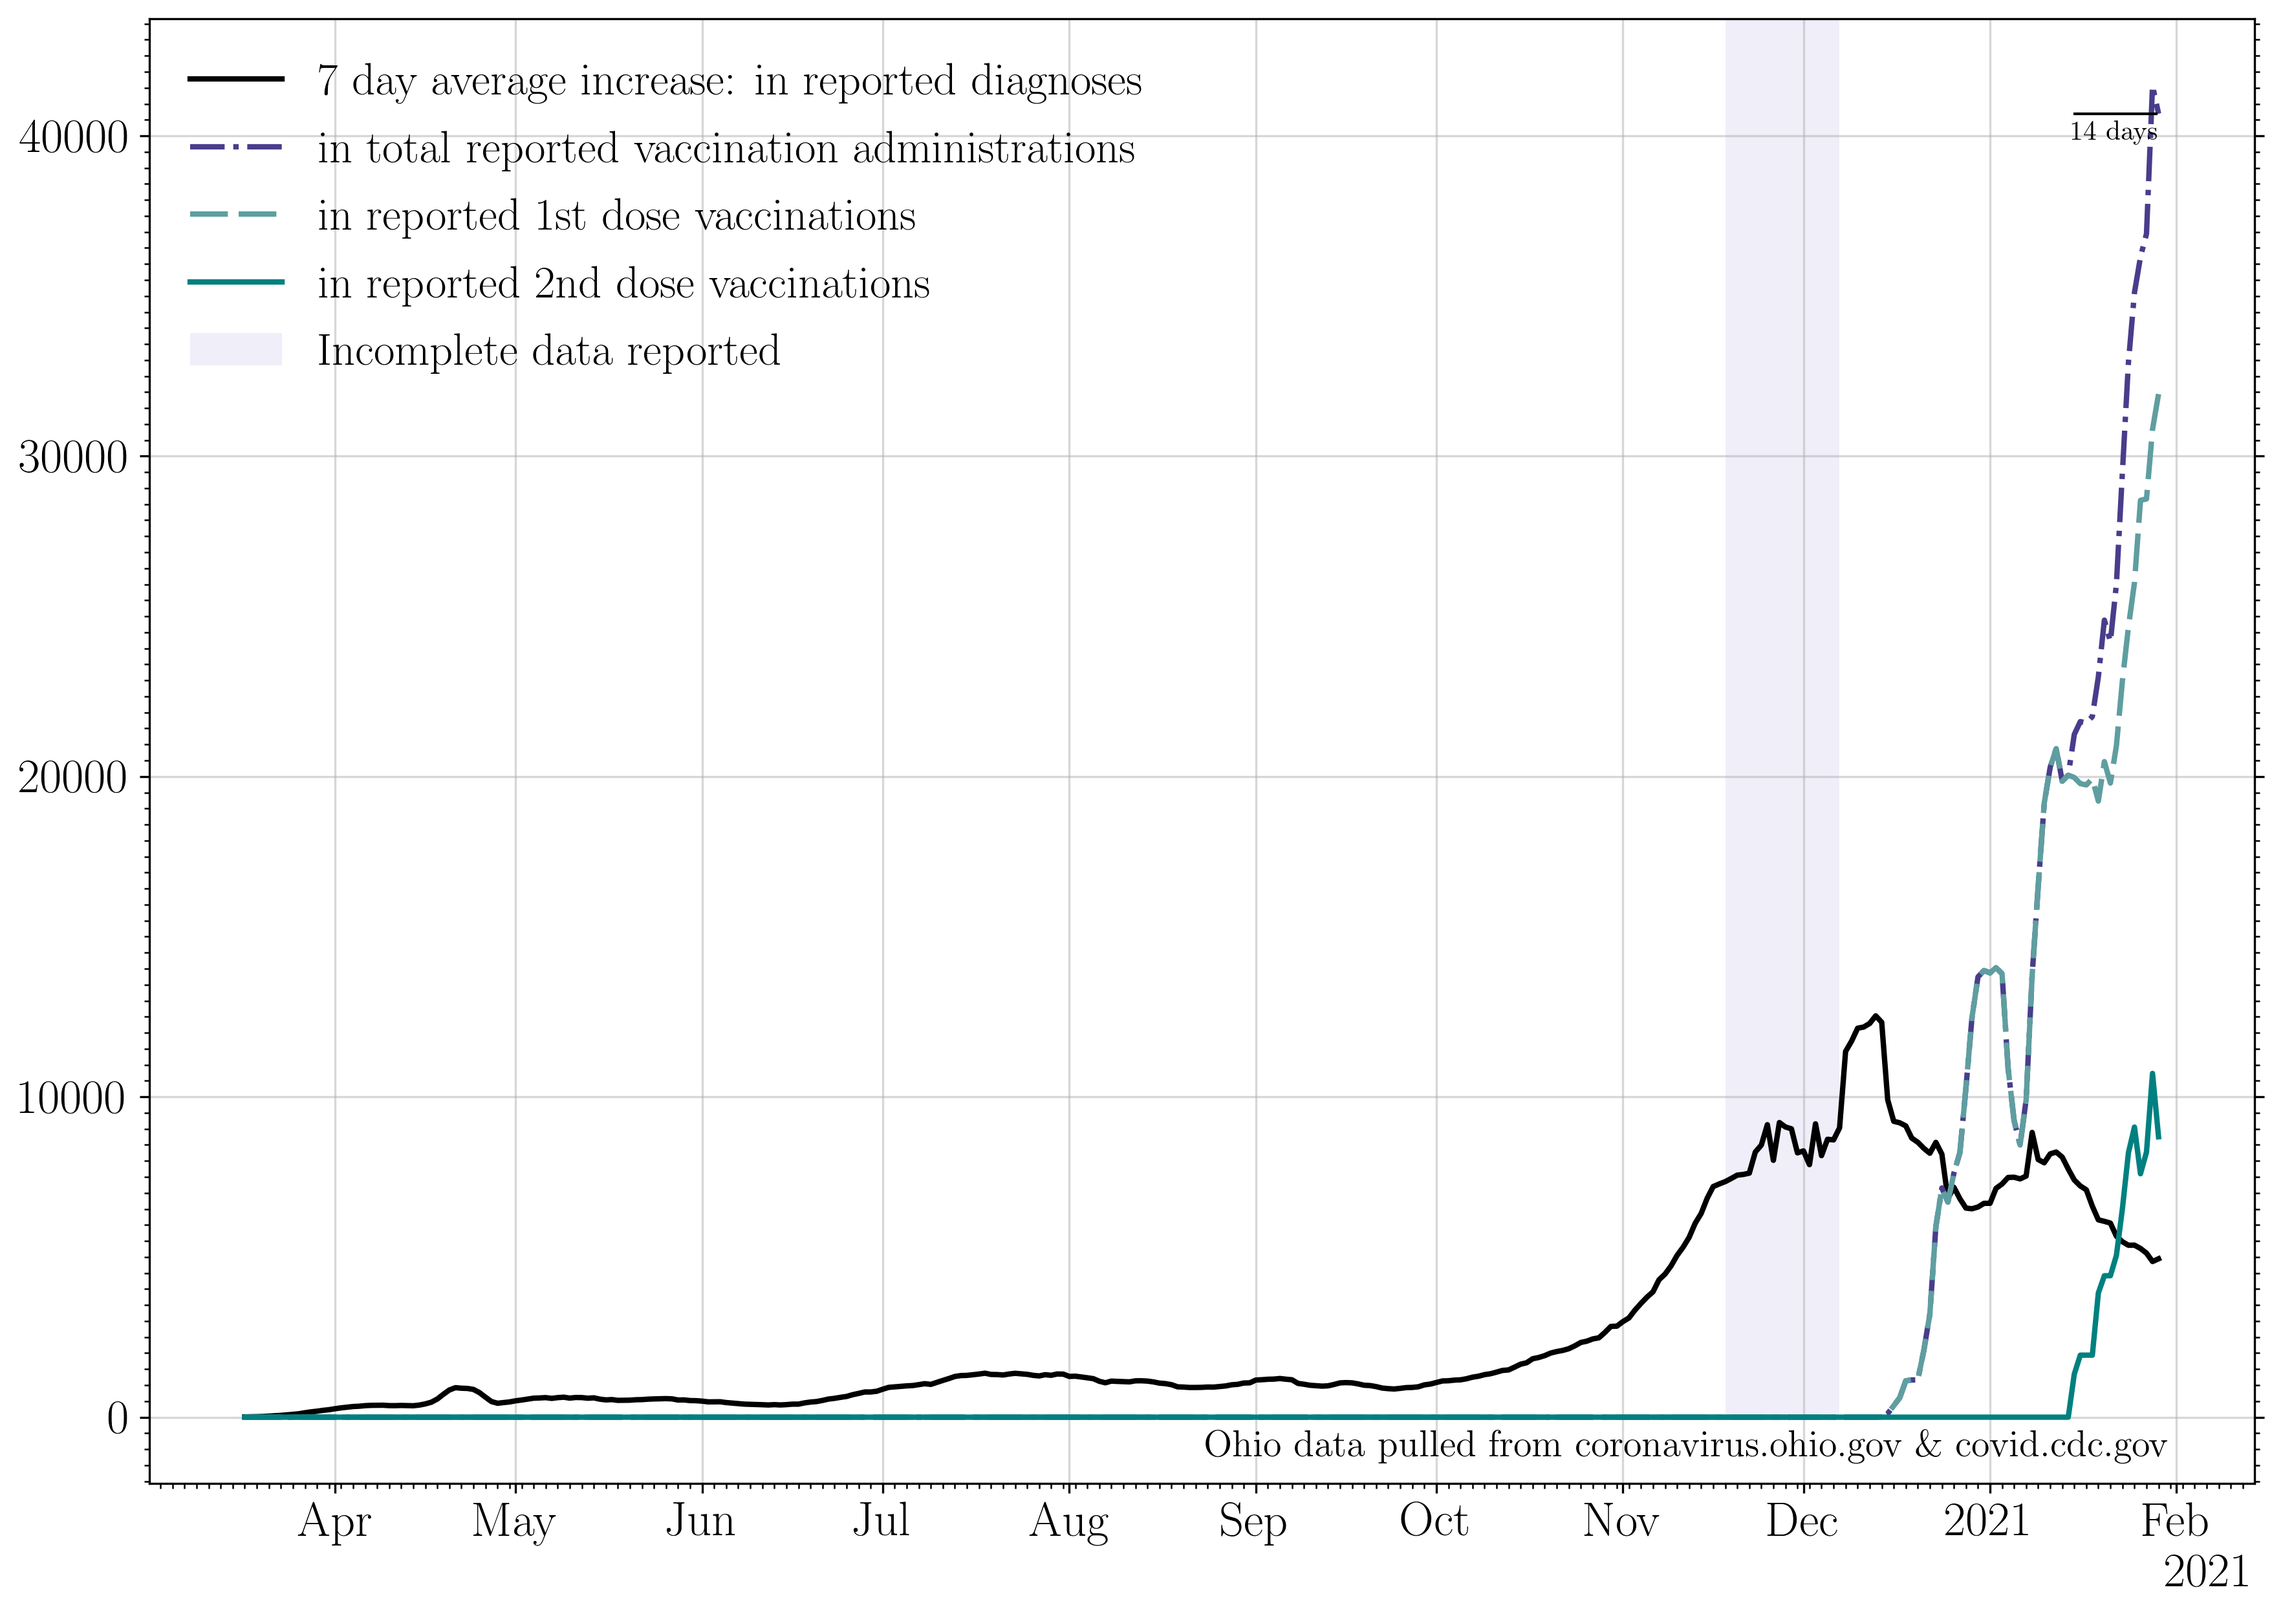
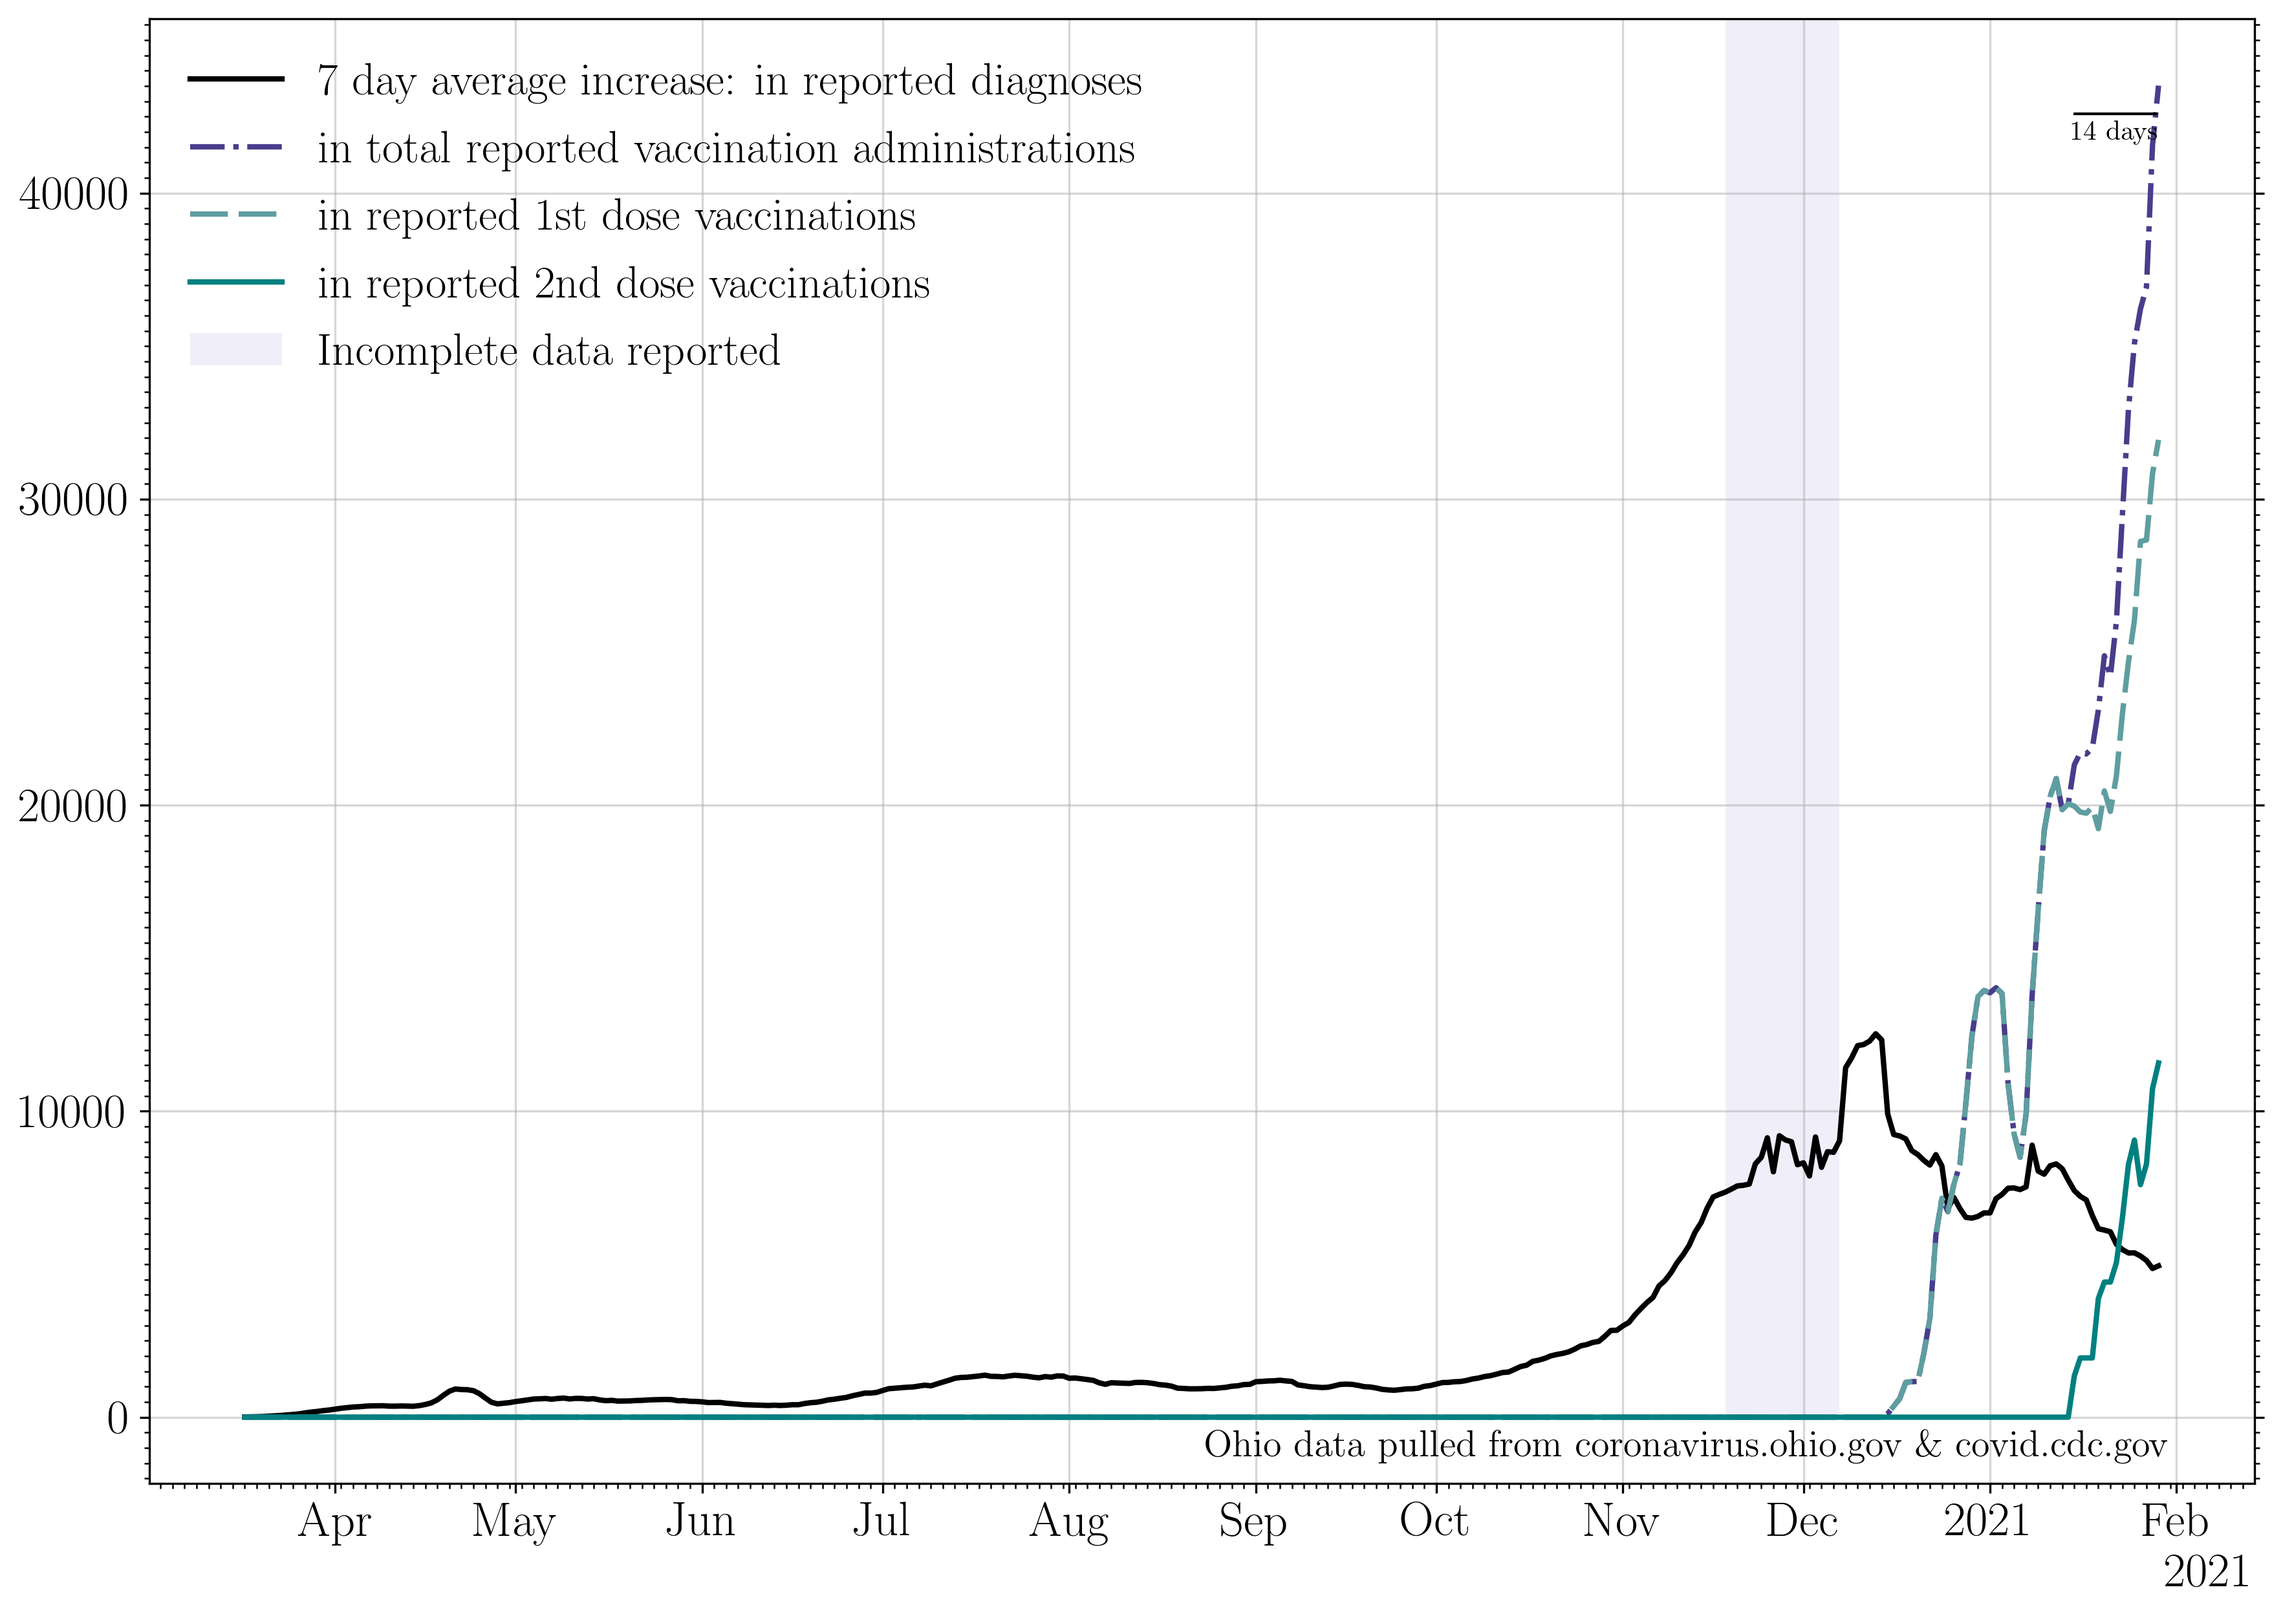
CDC second dose data

diff --git a/index.md b/index.md
@@ -80,8 +80,8 @@ The cumulative number of first and second round vaccinations. If no new events w
 >The current total number of first round vaccinations is equivalent to 1 person out of every 15 in the state of Ohio having begun their vaccination sequence.
 >This is 6.49 percent of the population of Ohio.
 
->The current total number of second round vaccinations is equivalent to 1 person out of every 110 in the state of Ohio having completed their vaccination sequence.
->This is 0.91 percent of the population of Ohio.
+>The current total number of second round vaccinations is equivalent to 1 person out of every 93 in the state of Ohio having completed their vaccination sequence.
+>This is 1.08 percent of the population of Ohio.
 
 >Currently fully protected by the vaccine are: 9411 people, who received their second round vaccination on or before Jan 15 2021.
 
